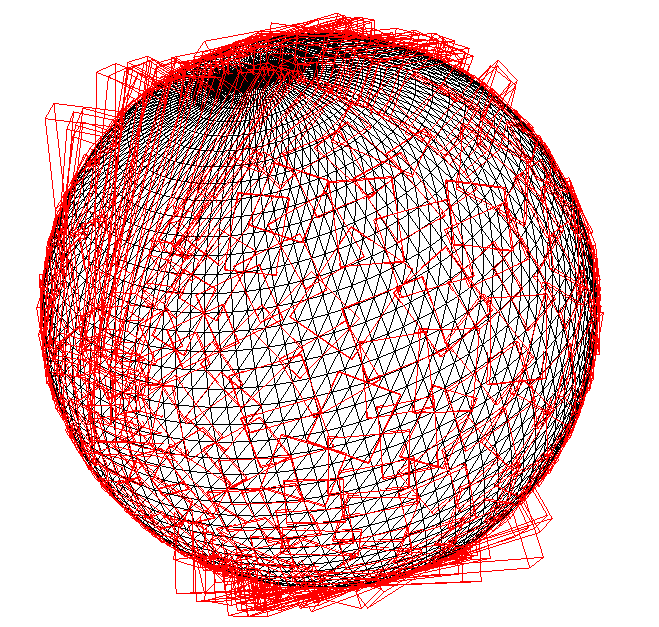
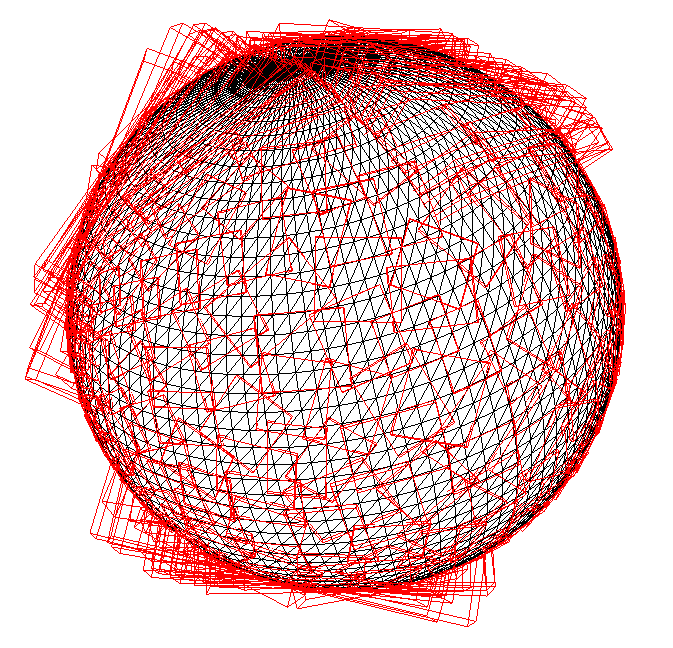
Adding some images that are referenced but weren't there before. More on Embree's bvh.

diff --git a/presentation/presentation.tex b/presentation/presentation.tex
@@ -190,27 +190,21 @@ But it takes a long time... (2-10x slower than native codes)
 \frametitle{DAGMC's BVH}
 
 DAGMC uses the BVH hierarchy found in the Mesh Oriented dAtaBase, MOAB.
+\begin{center}
+  \begin{tikzpicture}
 
-\begin{columns}
-  \column{0.45\textwidth}
-  \begin{figure}
-      \includegraphics[width=0.4\textwidth]{./images/sphere_obbs_shallow.png}
-  \end{figure}
+    \node (SHALLOW) [auto, outer sep=10pt, label=below:{\small shallow}] {\includegraphics[width=0.3\textwidth]{./images/sphere_obbs_shallow.png}};
+    
+    \node (DEEP) [auto, outer sep=10pt, xshift=7cm, label=below:{\small deep}] {\includegraphics[width=0.3\textwidth]{./images/sphere_obbs_deep.png}};
 
-  \column{0.1\textwidth}
-  \begin{figure}
-    \arrowright
-  \end{figure}
-  
-  \column{0.45\textwidth}
-  \begin{figure}
-    \includegraphics[width=0.4\textwidth]{./images/sphere_obbs_deep.png}
-  \end{figure}
-\end{columns}
+    \draw [arrow] (SHALLOW) -- (DEEP);
+  \end{tikzpicture}
+\end{center}
 
 \begin{itemize}
-\item oriented bounding boxes (OBBs) are the bounding volume of choice
+\item oriented bounding boxes (OBBs)
 \item uses binary trees
+\item median splitting (longest to shortest axis)
 \end{itemize}
 
 \end{frame}
@@ -221,16 +215,17 @@ DAGMC uses the BVH hierarchy found in the Mesh Oriented dAtaBase, MOAB.
 
 \frametitle{Embree's BVH}
 
-Embree uses an OBB quad-tree structure:
+Embree also uses OBB but with a quad-tree structure:
 
 \begin{center}
 \includegraphics[width=0.5\textwidth]{./images/quad_tree.png}
 \end{center}
 
 \begin{itemize}
-\item this discretizes the geometric primitives and space more finely per level in the tree
-\item but it also makes for more tree nodes to check when doing a query
-\item Embree makes up for this by checking many nodes at once using SIMD commands
+\item uses median splitting w/ Surface Area Heuristic criterion
+\item discretizes the geometric primitives and space more finely per level in the tree
+\item makes for more tree nodes to check per query
+\item uses SIMD to check many nodes at once
 \end{itemize}
 
 \end{frame}
@@ -238,6 +233,7 @@ Embree uses an OBB quad-tree structure:
 
 \begin{frame}
 \frametitle{Embree's BVH}
+
 
 \end{frame}
 
